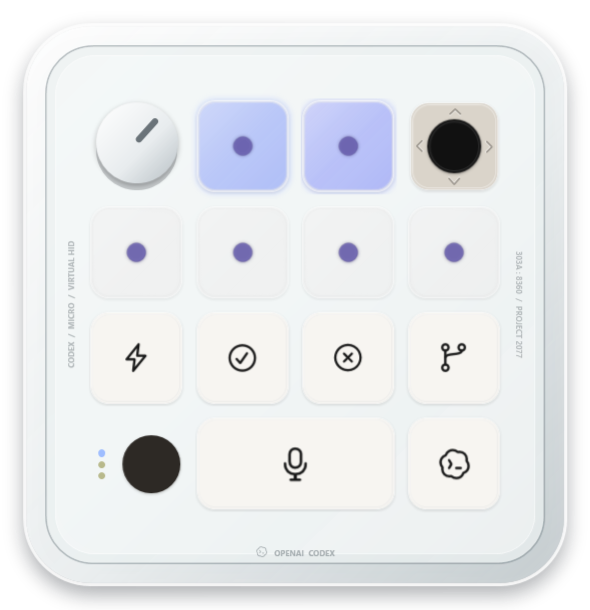
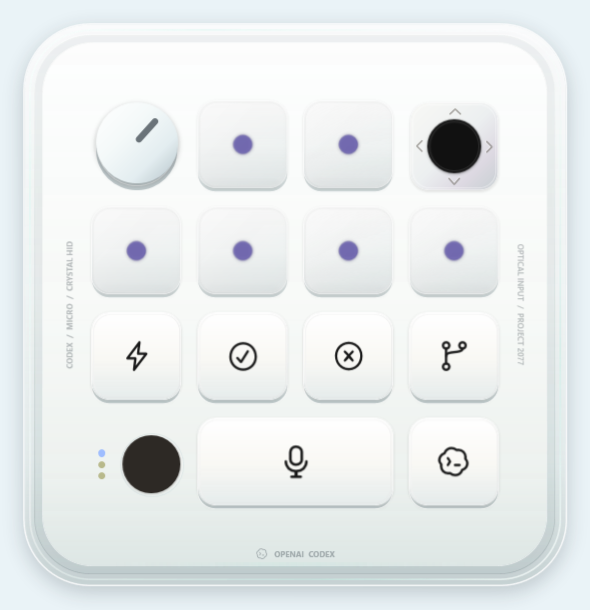
docs: refresh interface previews

diff --git a/README.md b/README.md
@@ -16,7 +16,9 @@ Codex Micro sold out quickly. It is a tiny keyboard made specifically for Codex,
 
 The gamepad wins. QED. (To be fair, very few controllers can compete with six gloriously distracting color-changing lights.)
 
-![Agent Controller gamepad controls](public/images/agent-controller-gamepad-guide-en.png)
+![Agent Controller dashboard with the interactive controller guide, Micro dial, and Codex sidebar](public/images/agent-controller-gamepad-guide-en.png)
+
+The dashboard brings the interactive controller guide, Micro dial, Codex task sidebar, and recent events into one crystal workspace. Pressing a controller input switches the matching tutorial tab and action hint in real time.
 
 > One catch: you still need a microphone for voice input. Neither device usually records audio by itself.
 